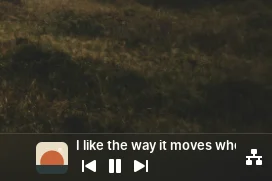
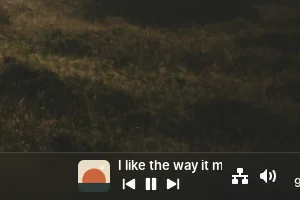
Make Now Playing's compact layout a cover and a short sliding title over small controls, about 150 pixels wide

diff --git a/extensions/now-playing/src/element.ts b/extensions/now-playing/src/element.ts
@@ -7,8 +7,6 @@ type Granted = 'taskbar' | 'media' | 'popups';
 export type Layout = 'compact' | 'full' | 'no-controls' | 'cover';
 
 const SPACING = 8;
-const CONTROL = 26;
-const SMALLEST_TEXT = 60;
 const PROGRESS_WIDTH = 120;
 
 export function cover(player: MediaPlayer, size: number, radius: number, progress?: number): View {
@@ -17,9 +15,9 @@ export function cover(player: MediaPlayer, size: number, radius: number, progres
     : { type: 'icon', icon: 'audio-x-generic-symbolic', size: Math.round(size * 0.6) };
 }
 
-export function controls(extension: Extension<Granted>, player: MediaPlayer, vertical = false): View {
+export function controls(extension: Extension<Granted>, player: MediaPlayer, vertical = false, small = false): View {
   const button = (icon: string, label: string, onActivate: () => void, disabled = false): View =>
-    ({ type: 'button', icon, label, iconOnly: true, style: 'flat', disabled, onActivate });
+    ({ type: 'button', icon, label, iconOnly: true, style: 'flat', small, disabled, onActivate });
   return {
     type: vertical ? 'column' : 'row',
     spacing: 0,
@@ -39,12 +37,12 @@ function choices(extension: Extension<Granted>) {
   return {
     layout,
     second: second === 'controls' && layout !== 'compact' ? 'artist' : second,
-    maxWidth: extension.settings.get<number>('max-width'),
+    titleWidth: extension.settings.get<number>('title-width'),
   };
 }
 
 function secondLine(extension: Extension<Granted>, player: MediaPlayer, second: string, width: number): View {
-  if (second === 'controls') return controls(extension, player);
+  if (second === 'controls') return controls(extension, player, false, true);
   const text = second === 'album' ? player.album || player.artist : player.artist;
   return { type: 'text', text: text || extension.t('unknown-artist'), style: 'caption', maxWidth: width };
 }
@@ -60,10 +58,6 @@ function words(extension: Extension<Granted>, player: MediaPlayer, second: strin
 
 const coverSize = (layout: ElementLayout) => layout.button - 8;
 
-function textWidth(maxWidth: number, layout: ElementLayout, beside: boolean): number {
-  return Math.max(SMALLEST_TEXT, maxWidth - coverSize(layout) - SPACING - (beside ? 3 * CONTROL + SPACING : 0));
-}
-
 function upright(extension: Extension<Granted>, following: Following, player: MediaPlayer, chosen: Layout, layout: ElementLayout): View {
   if (chosen === 'cover') return cover(player, layout.button - 4, 0, progressOf(following, player));
   return {
@@ -78,7 +72,7 @@ const progressOf = (following: Following, player: MediaPlayer) => player.length 
 export function compact(extension: Extension<Granted>, following: Following, layout: ElementLayout): View {
   const player = following.player;
   if (!player) return { type: 'spacer' };
-  const { layout: chosen, second, maxWidth } = choices(extension);
+  const { layout: chosen, second, titleWidth } = choices(extension);
   if (layout.vertical) return upright(extension, following, player, chosen, layout);
   if (chosen === 'cover') return cover(player, layout.button - 4, 0, progressOf(following, player));
   const beside = chosen === 'full';
@@ -87,7 +81,7 @@ export function compact(extension: Extension<Granted>, following: Following, lay
     spacing: SPACING,
     children: [
       cover(player, coverSize(layout), 6),
-      words(extension, player, second, textWidth(maxWidth, layout, beside)),
+      words(extension, player, second, titleWidth),
       ...beside ? [controls(extension, player)] : [],
     ],
   };
@@ -97,7 +91,7 @@ export function compact(extension: Extension<Granted>, following: Following, lay
 export function expanded(extension: Extension<Granted>, following: Following, layout: ElementLayout): View {
   const player = following.player;
   if (!player || layout.vertical) return compact(extension, following, layout);
-  const { layout: chosen, second, maxWidth } = choices(extension);
+  const { layout: chosen, second, titleWidth } = choices(extension);
   const position = following.position(player);
   const progress: View = {
     type: 'column',
@@ -117,7 +111,7 @@ export function expanded(extension: Extension<Granted>, following: Following, la
     spacing: SPACING + 2,
     children: [
       cover(player, coverSize(layout), 6),
-      words(extension, player, second === 'controls' ? 'artist' : second, textWidth(maxWidth, layout, false)),
+      words(extension, player, second === 'controls' ? 'artist' : second, titleWidth),
       progress,
       ...controlled ? [controls(extension, player)] : [],
     ],

diff --git a/extensions/now-playing/src/page.ts b/extensions/now-playing/src/page.ts
@@ -12,7 +12,7 @@ export function describePage(extension: Extension<Granted>, following: Following
     return [
       {
         title: t('look'),
-        items: [{ setting: 'layout' }, { setting: 'second-line' }, { setting: 'max-width' }, { setting: 'hide-paused' }, { type: 'taskbar-place', element: 'now-playing' }],
+        items: [{ setting: 'layout' }, { setting: 'second-line' }, { setting: 'title-width' }, { setting: 'hide-paused' }, { type: 'taskbar-place', element: 'now-playing' }],
       },
       {
         title: t('players'),
